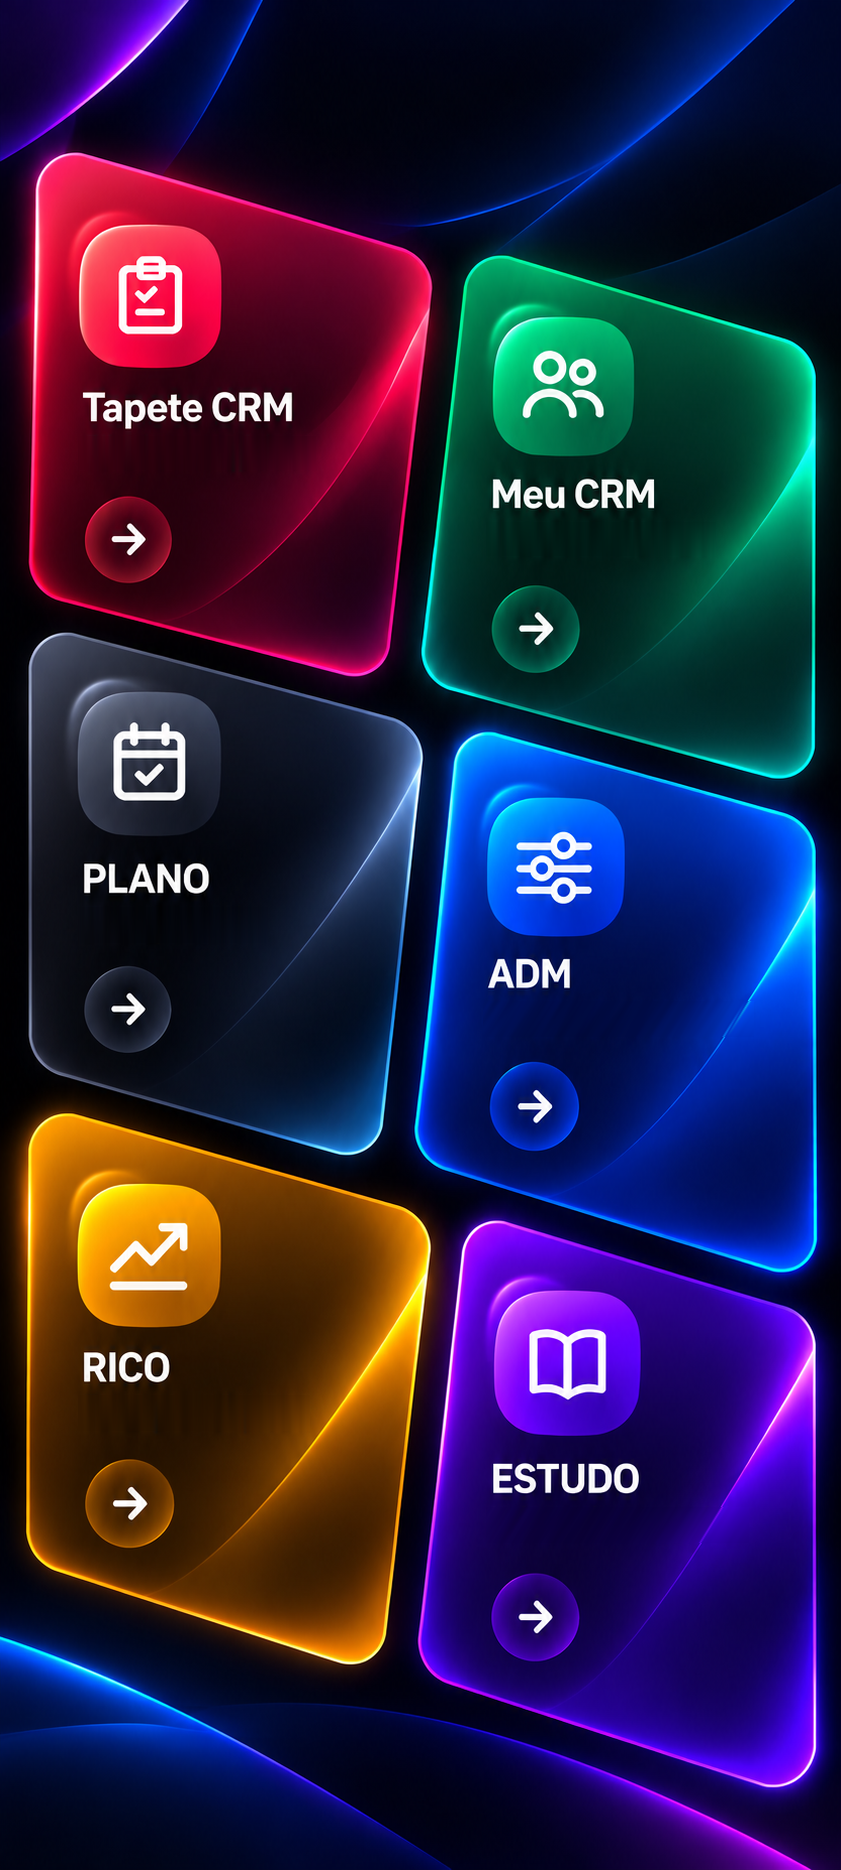
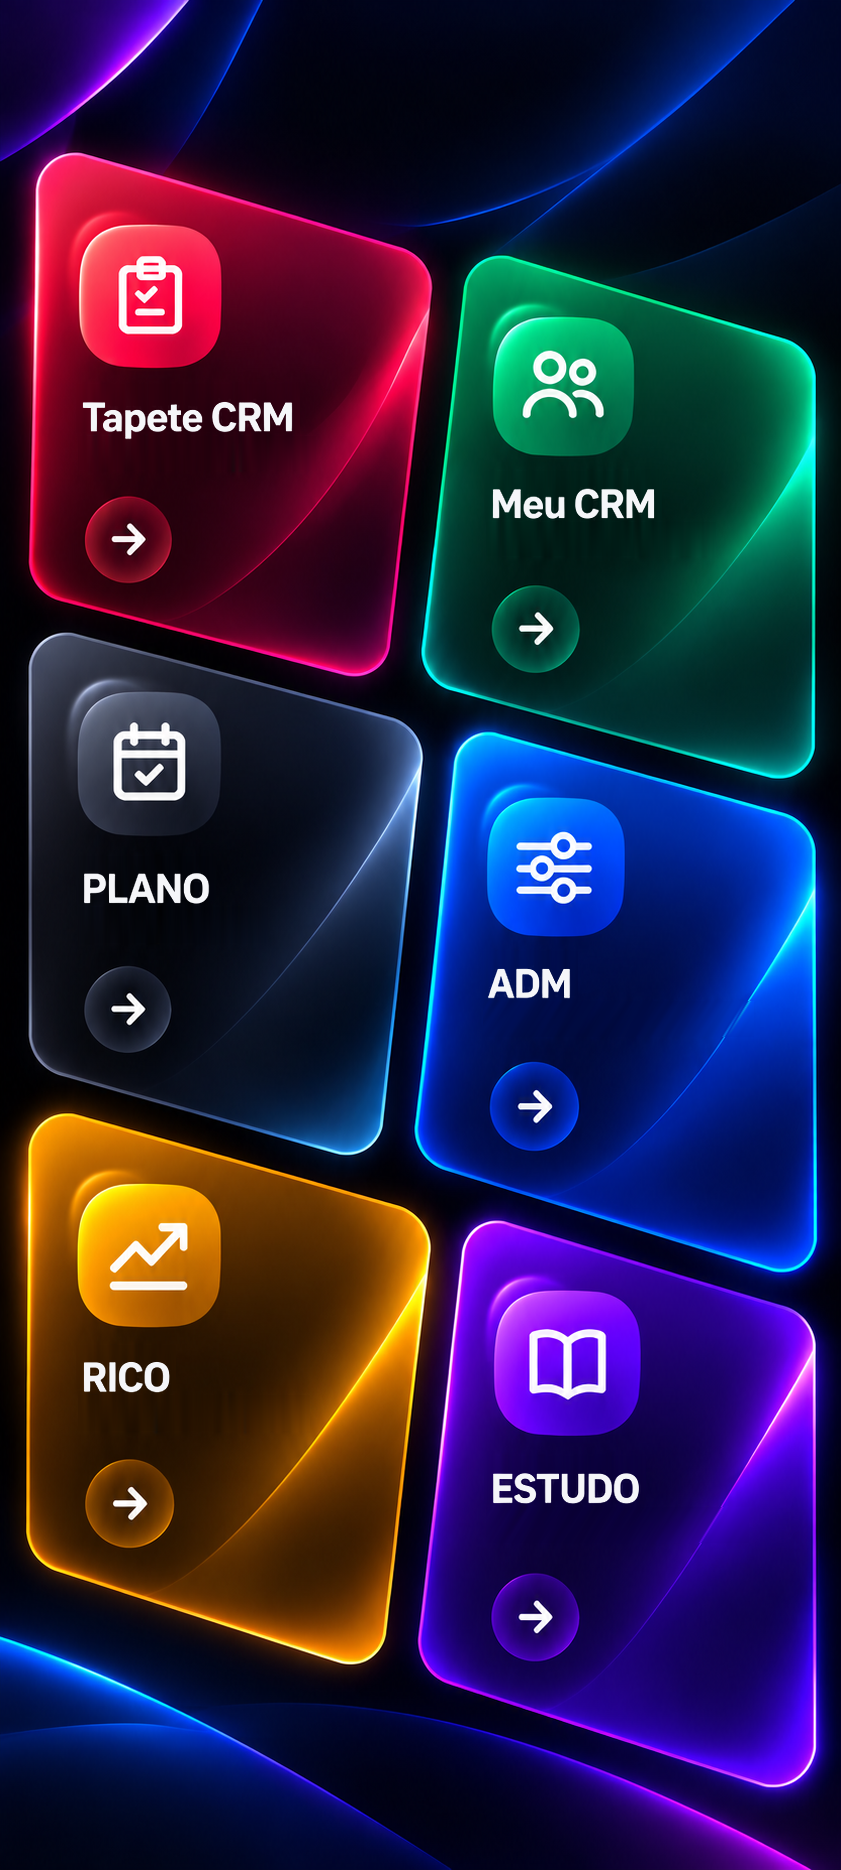
menu: cabe na tela e nomes mais abaixo

diff --git a/index.html b/index.html
@@ -201,8 +201,8 @@ body::after {
 }
 .logout-btn:hover { color: #111111; border-color: var(--border-hi); }
 
-.menu-tela { background: #020719; min-height: 100dvh; display: flex; align-items: center; justify-content: center; }
-.menu-box { position: relative; width: 100%; max-width: 560px; }
+.menu-tela { background: #020719; height: 100dvh; overflow: hidden; display: flex; align-items: center; justify-content: center; }
+.menu-box { position: relative; width: min(100vw, calc(100dvh * 841 / 1870)); }
 .menu-box img { display: block; width: 100%; height: auto; -webkit-user-select: none; user-select: none; }
 .menu-link { position: absolute; display: block; border-radius: 28px; -webkit-tap-highlight-color: transparent; }
 

diff --git a/service-worker.js b/service-worker.js
@@ -1,4 +1,4 @@
-const CACHE_NAME = 'meus-apps-v23';
+const CACHE_NAME = 'meus-apps-v24';
 
 const URLS_TO_CACHE = [
   './',
